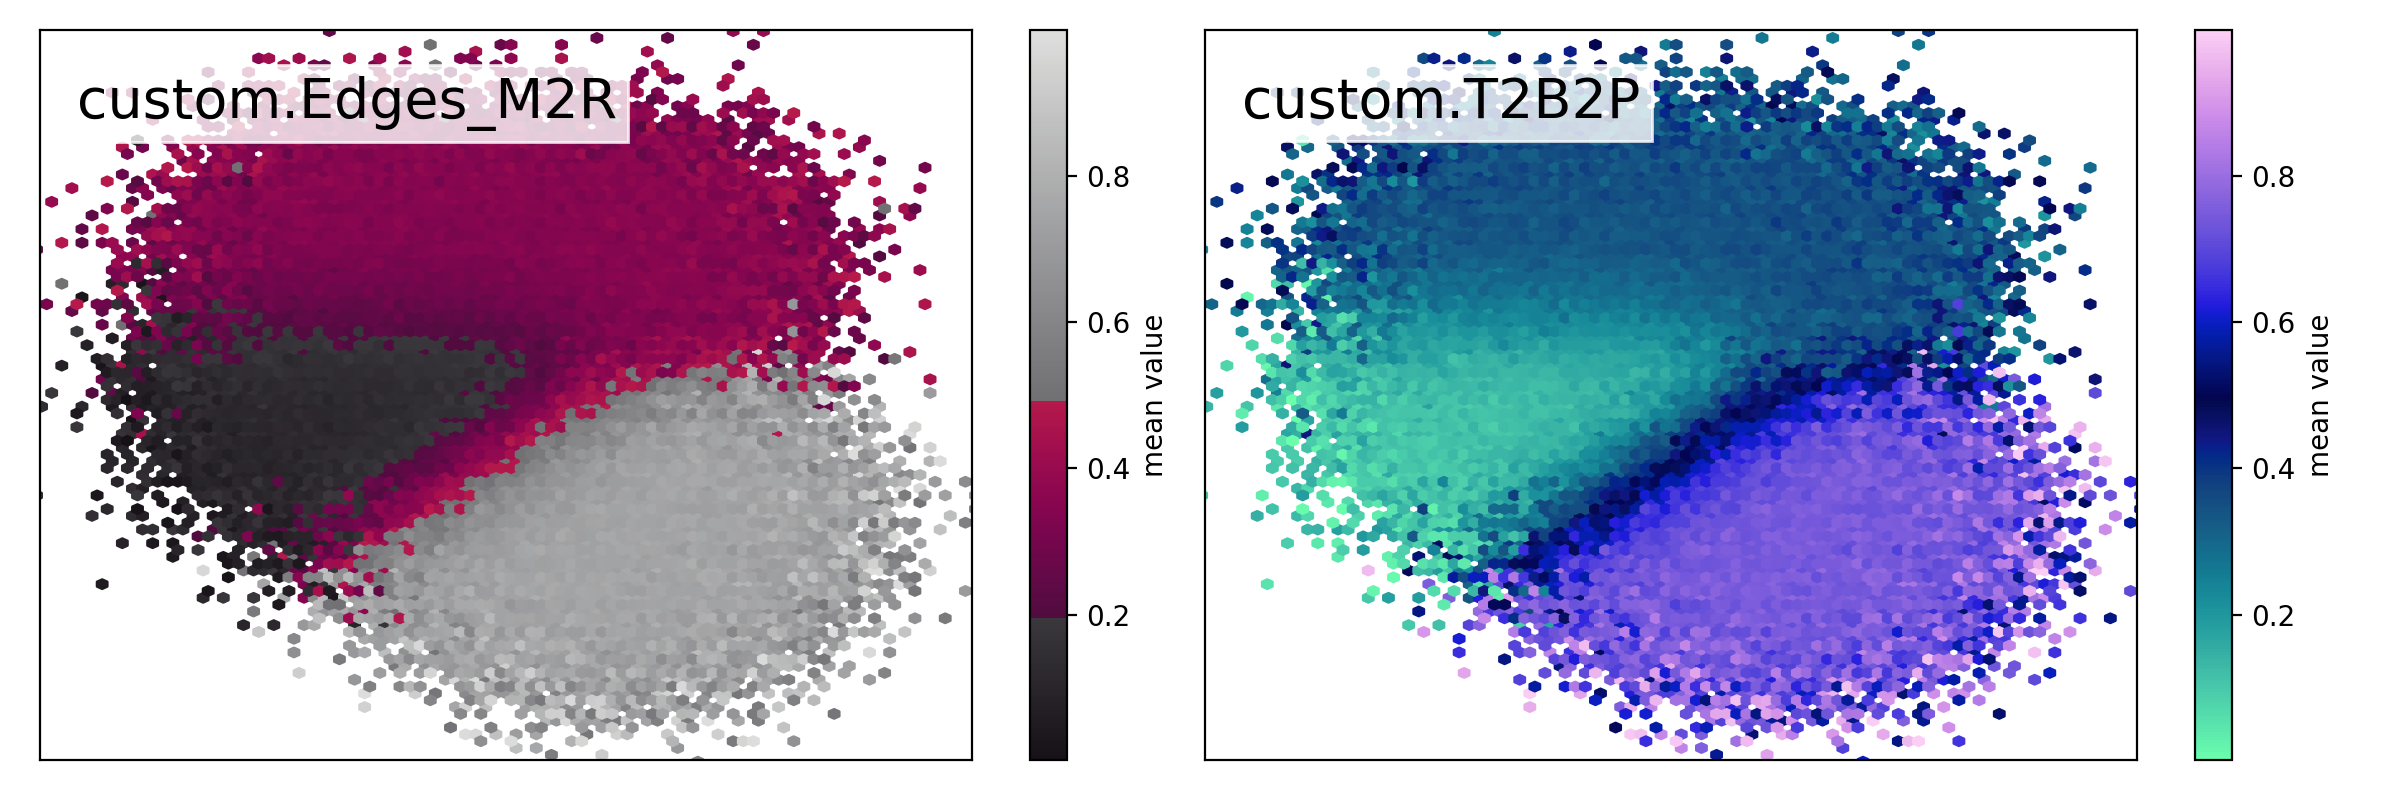
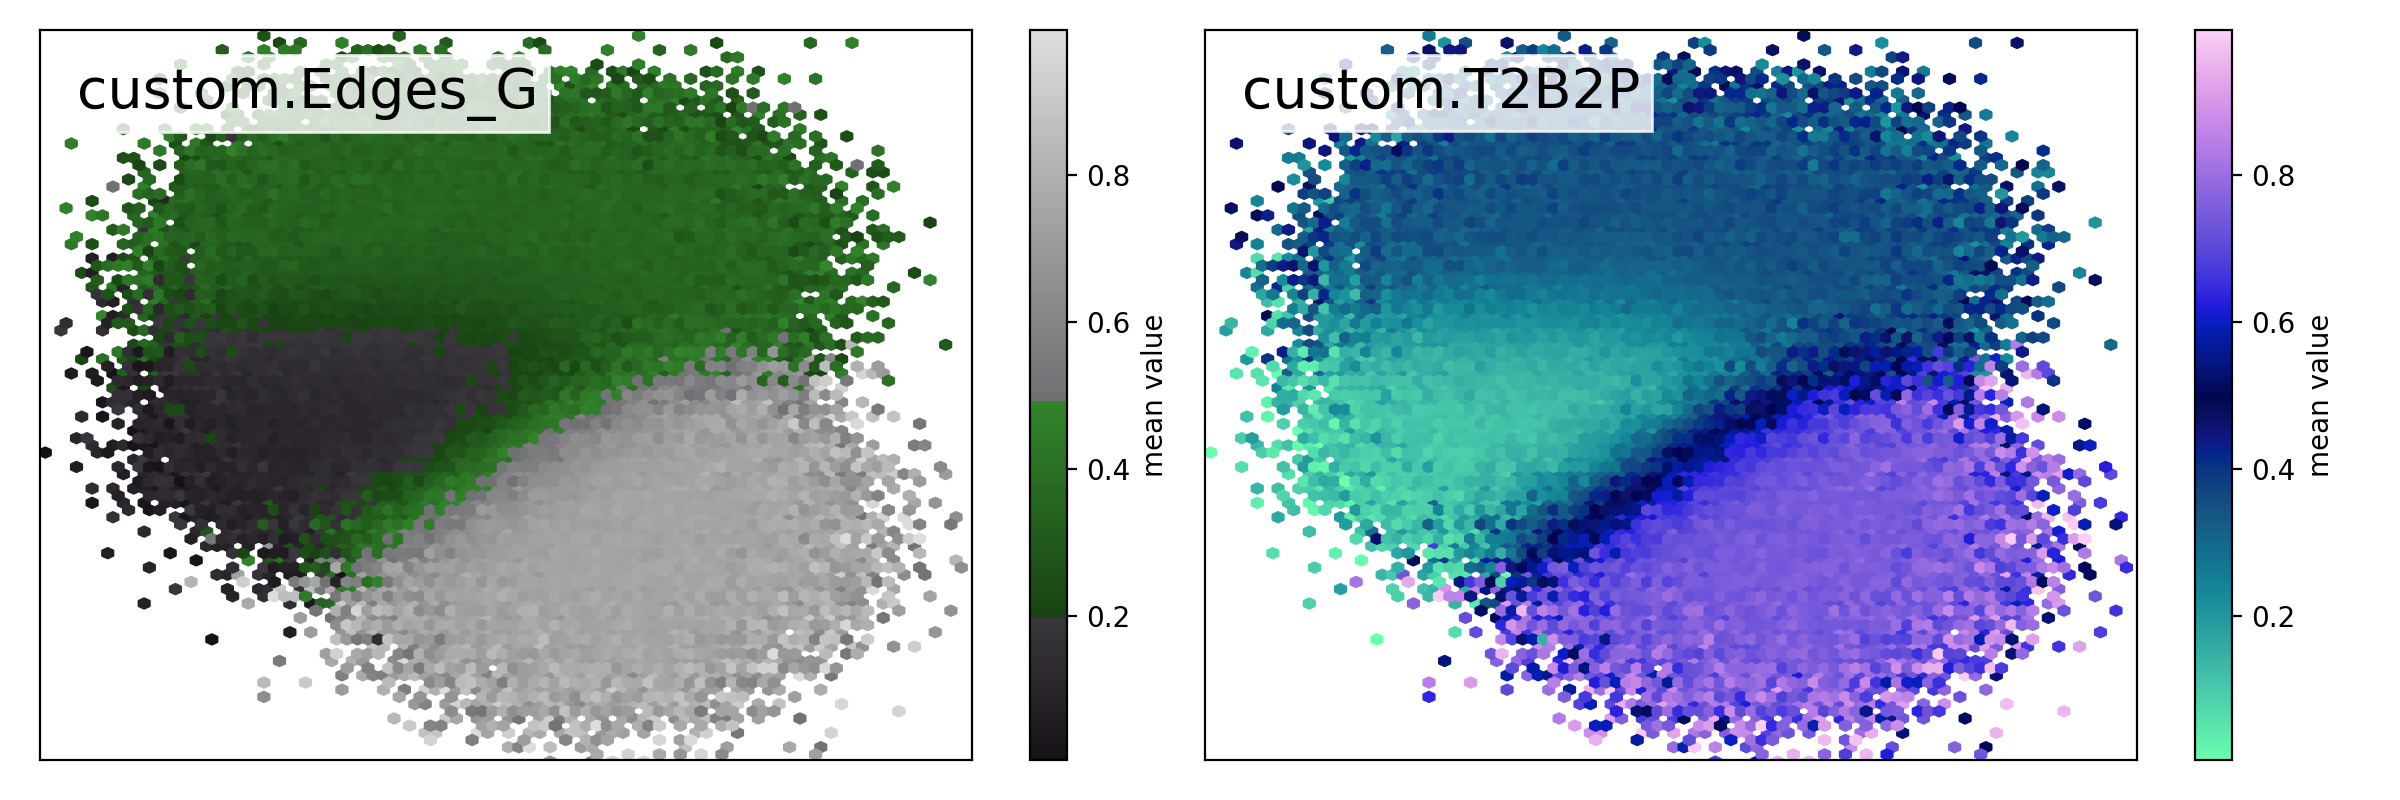
Improved README examples

Changed region(s): [[0.0, 0.0312, 0.4688, 0.9688], [0.5, 0.0312, 0.9062, 0.9688], [0.9375, 0.75, 0.9688, 0.7812]]

diff --git a/README.md b/README.md
@@ -68,6 +68,11 @@ x=np.concatenate([rng.normal(0,0.5,100000),rng.normal(1,0.5,100000)])
 y=np.concatenate([rng.normal(0,0.5,60000),rng.normal(1,0.5,60000),rng.normal(-1,0.5,80000)])
 z=np.concatenate([rng.uniform(0,0.2,60000),rng.uniform(0.2,0.5,60000),rng.uniform(0.5,1,80000)])
 
+sparse_sample=rng.choice(np.arange(len(x)),300,replace=False)
+x_sparse=x[sparse_sample]
+y_sparse=y[sparse_sample]
+z_sparse=z[sparse_sample]
+
 # Plotting
 faint_white=np.array(col.to_rgba('white'))
 faint_white[-1]=0.8
@@ -77,22 +82,22 @@ fig,axes=plt.subplots(nrows=3,ncols=2,figsize=(12,12),gridspec_kw=dict(wspace=0.
 # Example of a monochromatic map, using the registered names with matplotlib
 axes[0,0].hexbin(x,y,lw=0,cmap='scicm.Teal')
 # Example of a soft map, using the colour map objects
-axes[0,1].hexbin(x,y,lw=0,cmap=scicm.cm.SoftTeal)
-# Example of a bichromatic map, reversing the colour map
-axes[1,0].hexbin(x,y,lw=0,cmap='scicm.M2R_r')
-# Example of a diverging map
-axes[1,1].hexbin(x,y,lw=0,cmap='scicm.PkO')
+axes[1,0].hexbin(x,y,lw=0,cmap=scicm.cm.SoftTeal)
 # Example of a segmented map
 axes[2,0].hexbin(x,y,lw=0,cmap='scicm.Edges')
+# Example of a bichromatic map, reversing the colour map
+axes[0,1].hexbin(x,y,lw=0,C=z,cmap='scicm.M2R_r')
+# Example of a diverging map
+axes[1,1].hexbin(x,y,lw=0,C=z,cmap='scicm.PkO')
 # Example of a miscellaneous map
-axes[2,1].hexbin(x,y,lw=0,cmap='scicm.Tropical')
+axes[2,1].scatter(x_sparse,y_sparse,s=15,c=z_sparse,cmap='scicm.Tropical')
 
-for ax,txt in zip(axes.flatten(),['Teal','SoftTeal','MkR_r','PkO','Edges','Tropical']):
+for ax,txt in zip(axes.flatten(),['Teal','MkR_r','SoftTeal','PkO','Edges','Tropical']):
     ax.text(-1.8,2.2,txt,fontsize=20,backgroundcolor=faint_white)
     ax.set_xticks([])
     ax.set_yticks([])
     ax.set_xlim([-2,3])
-    ax.set_ylim([-2.9,2.9])
+    ax.set_ylim([-2.8,2.8])
 
 plt.tight_layout()
 plt.show()
@@ -105,7 +110,8 @@ plt.show()
 # Colour map cropping
 cropped_Bkr=scicm.tools.crop('scicm.BkR',vmin=0.2,vmax=1.0)
 
-fig,axes=plt.subplots(nrows=1,ncols=2,figsize=(12,4),gridspec_kw=dict(wspace=0.0,hspace=0.0),facecolor='w')
+fig,axes=plt.subplots(nrows=1,ncols=2,figsize=(12,4),facecolor='w',
+                      gridspec_kw=dict(wspace=0.0,hspace=0.0))
 h1=axes[0].hexbin(x,y,C=z,lw=0,cmap='scicm.BkR')
 h2=axes[1].hexbin(x,y,C=z,lw=0,cmap=cropped_Bkr)
 
@@ -114,7 +120,7 @@ for ax,txt in zip(axes.flatten(),['scicm.BkR','cropped_Bkr']):
     ax.set_xticks([])
     ax.set_yticks([])
     ax.set_xlim([-2,3])
-    ax.set_ylim([-2.9,2.9])
+    ax.set_ylim([-2.8,2.8])
 
 cbar0=fig.colorbar(h1,ax=axes[0])
 cbar0.set_label('mean value')
@@ -127,19 +133,20 @@ plt.show()
 ![](https://github.com/MBravoS/scicm/raw/master/examples/README_ex2.png)
 ```python
 # Colour map merging and stitching
-Edges_M2R=scicm.tools.merge(['scicm.Stone','scicm.M2R','scicm.Stone'],[0.2,0.5],'custom.Edges_M2R')
+Edges_G=scicm.tools.merge(['scicm.Stone','scicm.Green','scicm.Stone'],[0.2,0.5],'custom.Edges_G')
 T2B2P=scicm.tools.stitch(['scicm.B2T_r','scicm.B2P'],np.array([[0,1],[0,1]]),[0.5],'custom.T2B2P')
 
-fig,axes=plt.subplots(nrows=1,ncols=2,figsize=(12,4),gridspec_kw=dict(wspace=0.0,hspace=0.0),facecolor='w')
-h1=axes[0].hexbin(x,y,C=z,cmap='custom.Edges_M2R')
+fig,axes=plt.subplots(nrows=1,ncols=2,figsize=(12,4),facecolor='w',
+                      gridspec_kw=dict(wspace=0.0,hspace=0.0))
+h1=axes[0].hexbin(x,y,C=z,cmap='custom.Edges_G')
 h2=axes[1].hexbin(x,y,C=z,cmap='custom.T2B2P')
 
-for ax,txt in zip(axes.flatten(),['custom.Edges_M2R','custom.T2B2P']):
+for ax,txt in zip(axes.flatten(),['custom.Edges_G','custom.T2B2P']):
     ax.text(-1.8,2.2,txt,fontsize=20,backgroundcolor=faint_white)
     ax.set_xticks([])
     ax.set_yticks([])
     ax.set_xlim([-2,3])
-    ax.set_ylim([-2.9,2.9])
+    ax.set_ylim([-2.8,2.8])
 
 cbar0=fig.colorbar(h1,ax=axes[0])
 cbar0.set_label('mean value')
